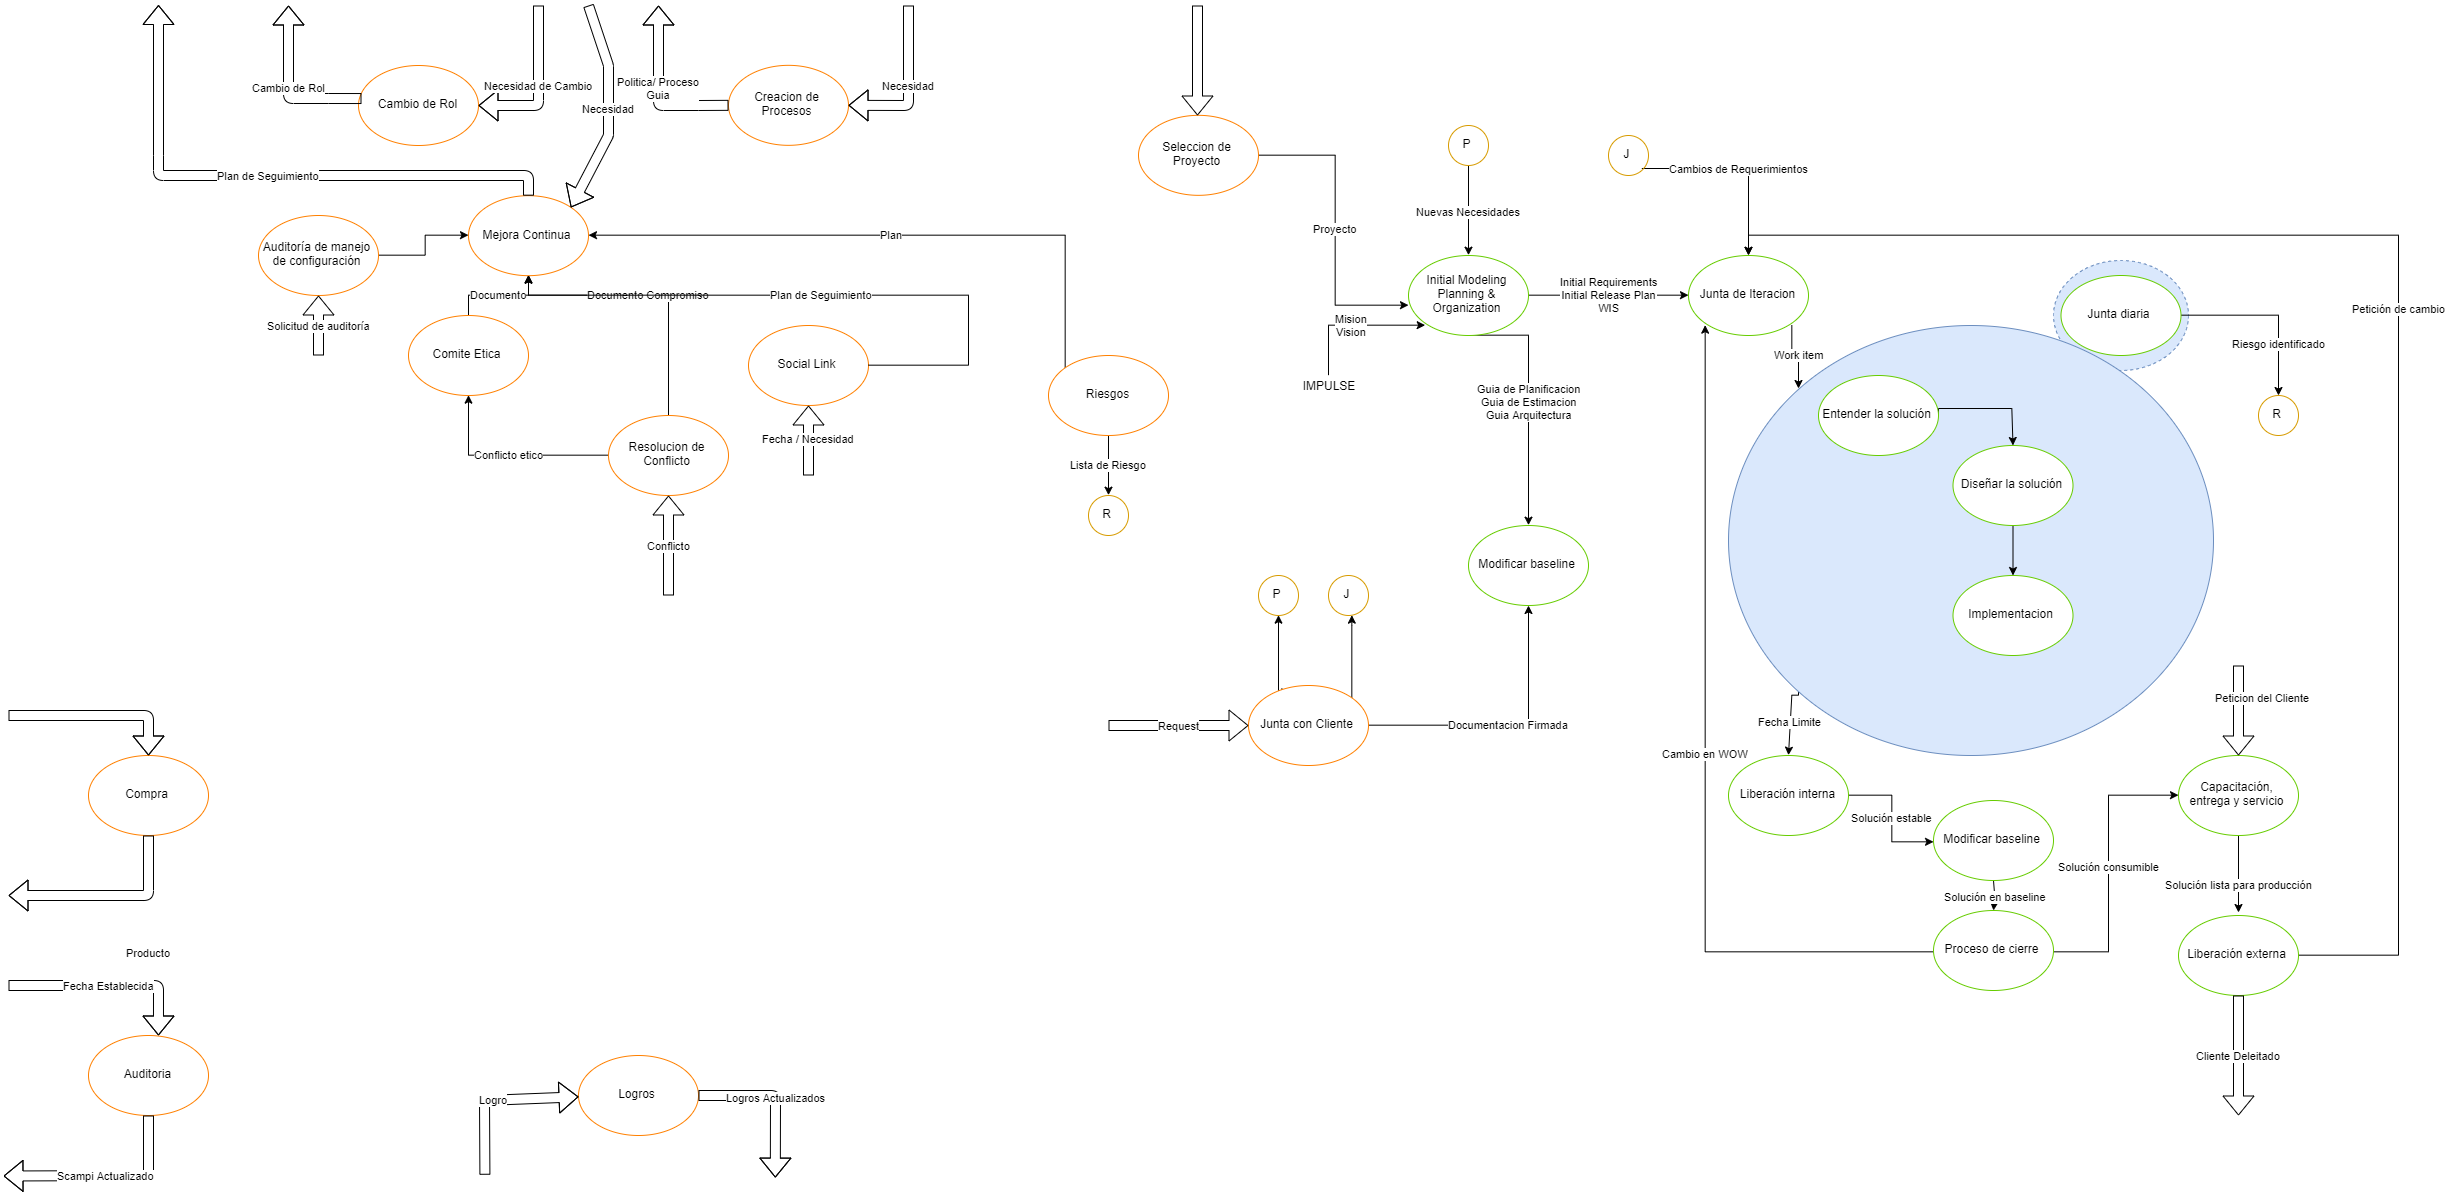
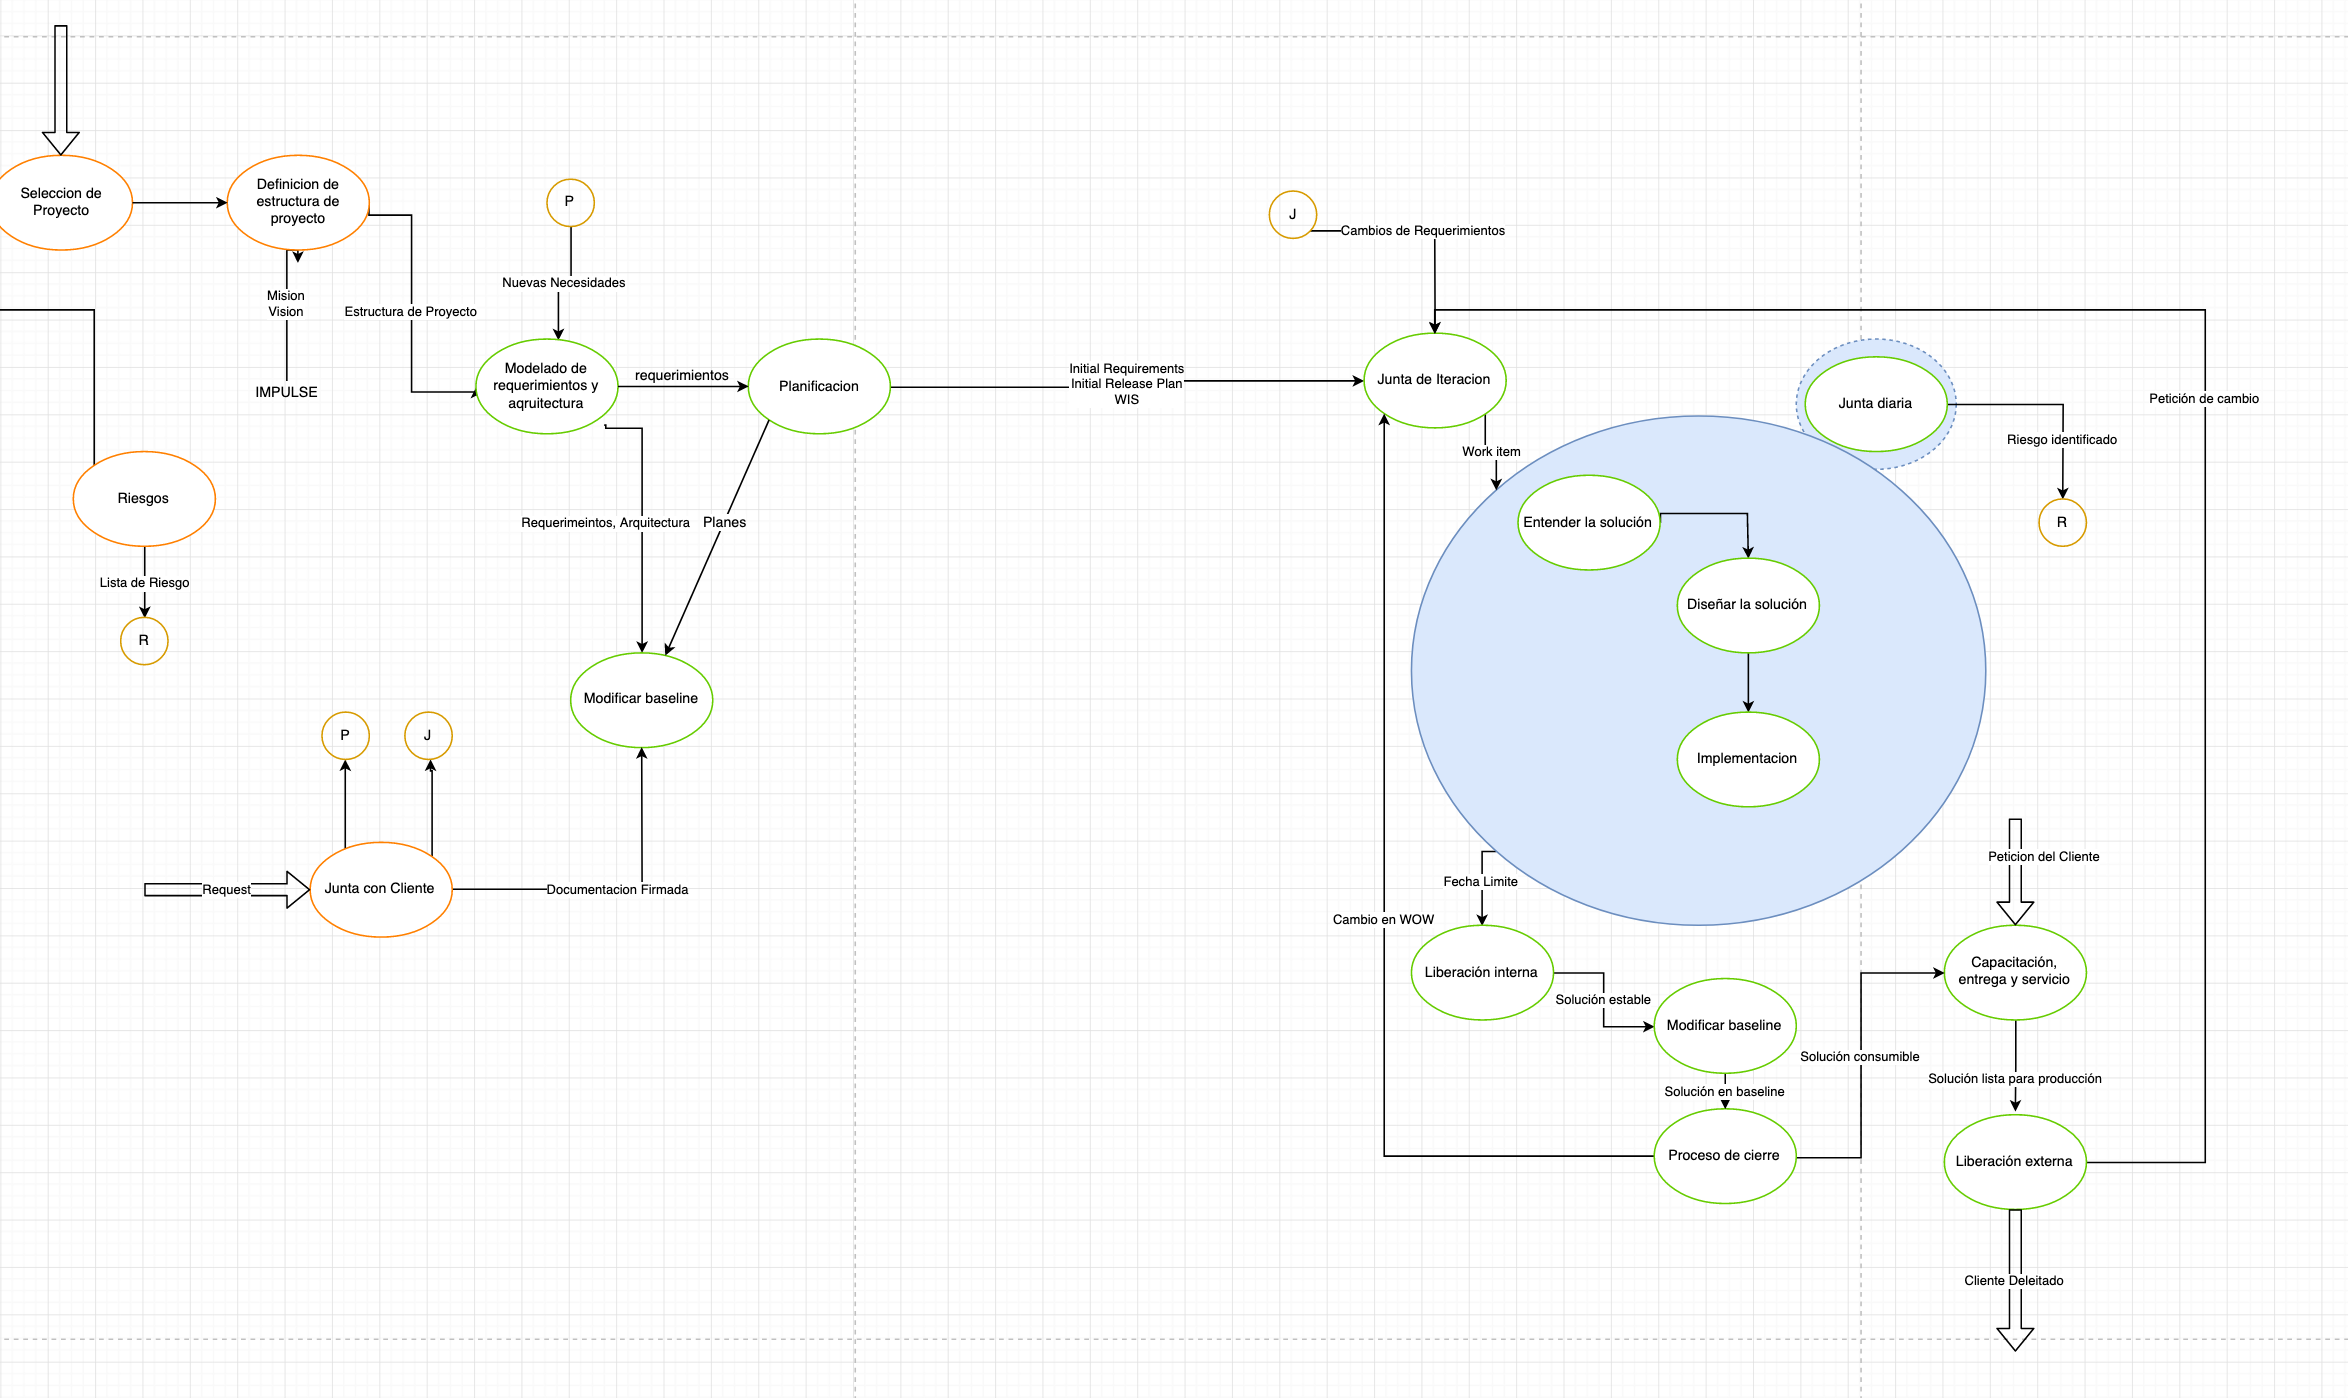
Cambio a mapa de procesos y RD listo

diff --git a/procesos/IMP02.1Modelado de Requerimientos y Aqruitectura.html b/procesos/IMP02.1Modelado de Requerimientos y Aqruitectura.html
@@ -1,0 +1,134 @@
+<h1>Modelado de Requerimientos y arquitectura</h1>
+<h3>Propósito</h3>
+<ul>
+    <li>Analizar y Disenar Requerimientos con base en necesidades</li>
+    <li> Disenar la arquitectura con base en requisitos no funcionales<li>
+</ul>
+<h3>Criterios de entrada</h3>
+<ul>
+    <li>Estructura del proyecto a desarrollar</li>
+    <li>Necesidad explicita</li>
+</ul>
+<h3>Fases</h3>
+<table>
+    <thead>
+        <tr>
+            <td>
+                <h3>Fase</h3>
+            </td>
+            <td>
+                <h3>Pasos</h3>
+            </td>
+            <td>
+                <h3>P.A</h3>
+            </td>
+        </tr>
+    </thead>
+    <tbody>
+
+        <tr>
+            <td>
+                1.- Recoleccion de necesidades.
+            </td>
+            <td>
+                <ul>
+                    <li>Realizar Entrevista con cliente(guia para llevar acabo entrevista la cual dice que se muestren prototipos, ejemplos existentes)</li>
+                    <li>Dirígete en drive a la carpeta de 'tu_proyecto/RM/Recoleccion de Necesidades' y completa la template de minuta de recoleccion de necesidades.</li>
+                    <li>Dirígete en drive a la carpeta de 'tu_proyecto/RM/Administracion US' y abre la 'sheet' "Necesidades" ,aquí registraras las necesidades con base en minuta de recoleccion de necesidades llenando los campos que se piden en la 'sheet'.</li>
+                </ul>
+            </td>
+            <td>
+
+                <ul>
+                    <li>RD 1.1/3.5</li>
+                </ul>
+            </td>
+        </tr>
+        <tr>
+            <td>
+                2.- Transformar necesidades a requerimientos
+            </td>
+            <td>
+                  <ul>
+                    <li>Dirígete en drive a la carpeta de 'tu_proyecto/RM/Administracion US' y abre la 'sheet' "Necesidades-Requerimientos" ,aquí registraras los requisitos funcionales, no funcionales y user stories.</li>
+                    <li> Por cada una de las necesidades encontradas realiza lo siguiente</li>
+                      <ul>
+                        <li> Entender el Business Process Diagram de la empresa<a href="https://www.heflo.com/blog/workflow/business-process-flow-diagram/" target="_blank">Link de apoyo</a> </li>
+                        <li>Crear un glosario de los términos de la empresa</li>
+                        <li>Definir requsitos funcionales<a href="https://sites.google.com/site/metodologiareq/capitulo-ii/tecnicas-para-identificar-requisitos-funcionales-y-no-funcionales" target="_blank">(Link de apoyo)</a></li>
+                        <li>Definir requisitos no funcionales<a href="https://sites.google.com/site/metodologiareq/capitulo-ii/tecnicas-para-identificar-requisitos-funcionales-y-no-funcionales" target="_blank">(Link de apoyo)</a></li>
+                        <li>Transformar requisitos funcionales en User Stories</li>
+                        <li>Define si el requerimiento es quality attribute o funcionalidad</li>
+                      </ul>
+                  </ul>
+            </td>
+            <td>
+              <ul>
+                <li>PP 2.6</li>
+                <li>RD 1.2/3.2</li>
+                <li> OPD 1.5 / 1.7 </li>
+              </ul>
+            </td>
+        </tr>
+        <tr>
+            <td>
+                3.- Definir arquitectura
+            </td>
+            <td>
+                <ul>
+                    <li>Dirígete en drive a la carpeta de 'tu_proyecto/Fase de inicio/Arquitectura' ,aquí guardaras todos los documentos completados que se mencionan a continuacion</li>
+                    <li>Define el Technology Stack Diagram llenando el template llamado "Template de Technology Stack Diagram"<a href="https://www.thesoftwareguild.com/blog/build-your-own-technology-stack/" target="_blank">(Link de apoyo)</a></li>
+                    <li>Define la User Interface Flow Diagram creandolo en la herramienta de tu conveniencia y llamalo "Interface Flow Diagram"<a href="http://agilemodeling.com/artifacts/uiFlowDiagram.htm" target="_blank">(Link de apoyo)</a></li>
+                    <li>Define el Logical Data Model creandolo con la herramienta de draw.io y llamalo "LDM" <a href="https://www.guru99.com/data-modelling-conceptual-logical.html" target="_blank">(Link de apoyo)</a></li>
+                    <li>Define el Deployment Diagram creandolo con la herramienta de tu conveniencia y llamalo "Deployment Diagram"<a href="https://creately.com/blog/diagrams/deployment-diagram-tutorial/" target="_blank">(Link de apoyo)</a></li>
+                </ul>
+            </td>
+            <td>
+                <ul>
+                    <li>PP 2.6 / 2.3 / 2.7/ 2.1</li>
+                    <li>RD 2.1</li>
+                    <li>OPD 1.5 / 1.7 </li>
+                    <li></li>
+                </ul>
+
+            </td>
+        </tr>
+        <tr>
+            <td>
+                4.- Identificar requerimientos relacionados con requerimientos ya definidos
+            </td>
+            <td>
+                <ul>
+                    <li>Dirígete en drive a la carpeta de 'tu_proyecto/RM/Administracion US' y abre la 'sheet' "Requerimientos-RequerimientosProducto" ,aquí registraras los requerimientos mencionados a continuacion.</li>
+                    <li> Por cada uno de los requerimientos  realiza lo siguiente</li>
+                    <ul>
+                      <li>Define los product y product component requirements<a href="https://www.hci-itil.com/CMMI/references/sp_eng_2_2_1_establish_product_requirements.html">(Link de apoyo)</a></li>
+                      <li>Define los interface requirements<a href="https://www.dlsweb.rmit.edu.au/Toolbox/ecommerce/tbn_respak/tbn_e2/html/tbn_e2_interface.htm">(Link de apoyo)</a></li>
+                      <li>Define los architecture requirements<a href="https://www.ibm.com/developerworks/rational/library/4706.html">(Link de apoyo)</a></li>
+                      <li>Define los derived requirements<a href="http://acqnotes.com/acqnote/tasks/derived-requirements">(Link de apoyo)</a></li>
+                      <li>Define los design constraints<a href="https://www.quora.com/What-are-the-design-constraints-for-software-development">(Link de apoyo)</a></li>
+                    </ul>
+                </ul>
+            </td>
+            <td>
+                <ul>
+                    <li>RD 2.1/2.2/2.3/3.2</li>
+                </ul>
+            </td>
+        </tr>
+    </tbody>
+</table>
+
+<h3>Resultado</h3>
+<ul>
+    <li>Arquitectura inicial</li>
+    <li>Requerimientos definidos</li>
+</ul>
+
+<h3>Evidencias</h3>
+<ul>
+
+    <li> <a href="https://docs.google.com/spreadsheets/d/11Jv9-5ql7a8VFPPJcOH73SzRU5equa4MaP6IjNcj3Sc/edit#gid=154426109">Archivo de administracion de US de Vostok</a></li>
+    <li><a href="https://drive.google.com/drive/u/1/folders/1RS8Dguk8H5rOhVJHZzw5JoKRAFBqMFos">Documentos de Arquitectura de Vostok</a></li>
+
+</ul>

diff --git a/procesos/IMP03JuntaDeIteracion.html b/procesos/IMP03JuntaDeIteracion.html
@@ -2,16 +2,20 @@
 <h3>Propósito</h3>
 <ul>
     <li>Definir los work items de la iteración.</li>
+    <li>Analizar y disenar requerimientos</li>
     <li>Acercarse a la solución.</li>
 </ul>
 <h3>Criterios de entrada</h3>
 <ul>
+    <li>Requerimientos definidos</li>
     <li>Los T.Ms deben estar presentes de manera puntual, a menos que ocurra algo extraoridnario</li>
     <li>Tener los materiales presentes: pizarrón, plumones, post-it.</li>
     <li>Work item stack priorizado con base en el objetivo de la iteración.</li>
+
     <li>Tener las estimaciones del proyecto presentes (si aplica).</li>
     <li>Tener los objetivos SMART del proyecto presentes.</li>
-    <li>Tener total conocimineto de la <a href="https://docs.google.com/document/d/1gyKwSD_gJw6pyD6CO4KOLy5PNqBz8qdW298Mjaj5qaY/edit" target="_blank">Política de Obtención de Datos.</a></li>
+    <li>Tener total conocimiento de la <a href="https://docs.google.com/document/d/1gyKwSD_gJw6pyD6CO4KOLy5PNqBz8qdW298Mjaj5qaY/edit" target="_blank">Política de Obtención de Datos.</a></li>
+
 </ul>
 <h3>Fases</h3>
 <table>
@@ -179,7 +183,22 @@
                 </ul>
             </td>
         </tr>
-
+        <tr>
+            <td>
+                7.- Analizar y disenar requerimientos
+            </td>
+            <td>
+                <ul>
+                  <li>Ejecuta  el proceso <a href="IMP04EntenderlaSolucion.html">Entender la Solucion</a> </li>
+                  <li>Ejecuta  el proceso <a href="IMP05DisenarlaSolucion.html">Disenar la Solucion</a> </li>
+                </ul>
+            </td>
+            <td>
+                <ul>
+                    <li>RD 3.3</li>
+                </ul>
+            </td>
+        </tr>
     </tbody>
 </table>
 

diff --git a/procesos/IMP04EntenderlaSolucion.html b/procesos/IMP04EntenderlaSolucion.html
@@ -59,7 +59,22 @@
         </tr>
         <tr>
             <td>
-                3.- Validación y Verificación
+                3.- Identificar Riesgos
+            </td>
+            <td>
+                <ul>
+                    <li>Ejecutar proceso <a href="IMP14IdentificacionDeRiesgos.html">de Identificacion de riesgos</a></li>
+                </ul>
+            </td>
+            <td>
+              <ul>
+                <li>RD 3.1/3.4/3.5</li>
+              </ul>
+            </td>
+        </tr>
+        <tr>
+            <td>
+                4.- Validación y Verificación
             </td>
             <td>
                 <ul>
@@ -75,7 +90,7 @@
         </tr>
         <tr>
             <td>
-                4.- Registro de actividades
+                5.- Registro de actividades
             </td>
             <td>
                 <ul>

diff --git a/procesos/IMP05DisenarlaSolucion.html b/procesos/IMP05DisenarlaSolucion.html
@@ -67,7 +67,22 @@
         </tr>
         <tr>
             <td>
-                3.- Validación y Verificación
+                3.- Identificar Riesgos
+            </td>
+            <td>
+                <ul>
+                    <li>Ejecutar proceso <a href="IMP14IdentificacionDeRiesgos.html">de Identificacion de riesgos</a></li>
+                </ul>
+            </td>
+            <td>
+              <ul>
+                <li>RD 3.1/3.4/3.5</li>
+              </ul>
+            </td>
+        </tr>
+        <tr>
+            <td>
+                4.- Validación y Verificación
             </td>
             <td>
                 <ul>
@@ -82,7 +97,7 @@
         </tr>
         <tr>
             <td>
-                4.- Registro de actividades
+                5.- Registro de actividades
             </td>
             <td>
                 <ul>

diff --git a/procesos/IMP06Implementacion.html b/procesos/IMP06Implementacion.html
@@ -126,7 +126,7 @@
                 </ul>
             </td>
             <td>
-               REQM 1.5 / 1.4 <br> 
+               REQM 1.5 / 1.4 <br>
                CM 2.1 <br>
                 VER 2.2 / 2.3
             </td>

diff --git a/procesos/IMP02ModeladoyPlanificacionInicial.html b/procesos/IMP02ModeladoyPlanificacionInicial.html
@@ -140,6 +140,7 @@
             </td>
             <td>
                 PP  1.1/ 1.2/ 1.3/ 1.4/ 2.1/ 2.6/2.7
+                RD  1.2
             </td>
         </tr>
         <tr>
